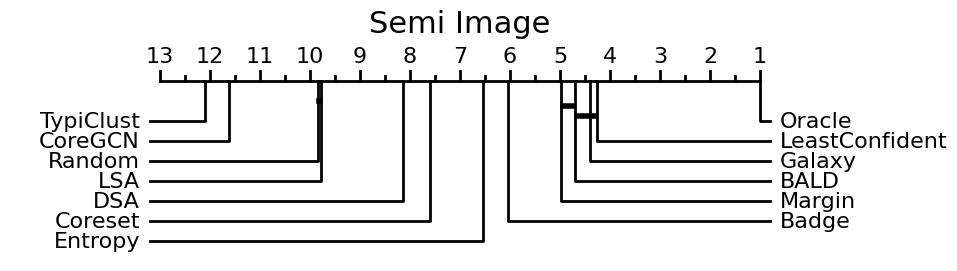
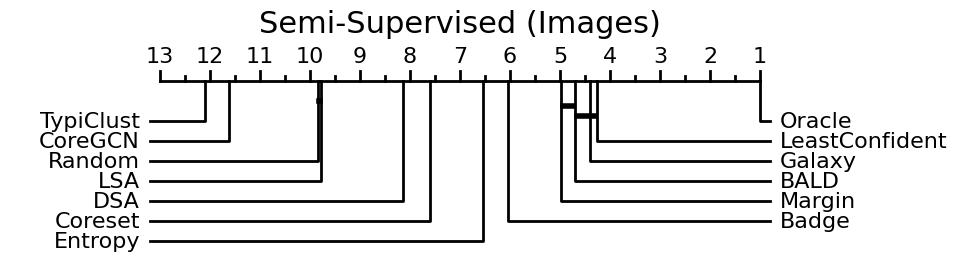
final Diss version

Changed region(s): [[0.2727, 0.0295, 0.697, 0.1476]]

diff --git a/core/evaluation.py b/core/evaluation.py
@@ -207,7 +207,7 @@ def compute_ranks_over_trials(df:pd.DataFrame):
 
 def combine_agents_into_df(dataset=None, query_size=None, agent=None,
                            max_loaded_runs=50, include_oracle=False,
-                           subsample_runs=None):
+                           subsample_runs=None, cut_length=None):
     def _load_trials_for_agent(dataset_name, query_size_name, agent_name):
         if query_size_name is not None:
             agent_folder = join(base_folder, dataset_name, query_size_name, agent_name)
@@ -216,6 +216,9 @@ def combine_agents_into_df(dataset=None, query_size=None, agent=None,
         acc_file = join(agent_folder, "accuracies.csv")
         if exists(acc_file):
             accuracies = pd.read_csv(acc_file, header=0, index_col=0).values
+            if cut_length is not None:
+                new_length = int(len(accuracies) * cut_length)
+                accuracies = accuracies[:new_length]
             if max_loaded_runs is not None:
                 N = max_loaded_runs
             else:
@@ -244,6 +247,8 @@ def combine_agents_into_df(dataset=None, query_size=None, agent=None,
                             df_data["trial"].append(trial)
                         df_data["iteration"].append(iteration)
                         df_data["auc"].append(accuracies[iteration, trial])
+    # End: _load_trials_for_agent
+
 
     base_folder = "runs"
 
@@ -323,7 +328,7 @@ if __name__ == '__main__':
     sorted_agents = ["Oracle", "Margin", "Galaxy", "Badge", "LeastConfident", "DSA", "BALD", "CoreGCN", "Entropy", "LSA",
                      "Random", "Coreset", "TypiClust"]
 
-    # generate_rank_leaderboard(add_std=True)
+    generate_rank_leaderboard(add_std=True)
     # generate_rank_leaderboard(add_std=False, subsample_runs=5)
 
     generate_auc_leaderboard(sorted_agents)

diff --git a/results/cd_diagram.py b/results/cd_diagram.py
@@ -431,9 +431,21 @@ if __name__ == '__main__':
                         "Cifar10Encoded", "FashionMnistEncoded"]
     incl_oracle = True
 
-    df = combine_agents_into_df(datasets_raw + datasets_encoded, include_oracle=incl_oracle)
+    # df = combine_agents_into_df(datasets_raw + datasets_encoded, include_oracle=incl_oracle, cut_length=0.5)
+    # df = prepare_df(df)
+    # draw_cd_diagram(df, title="All Tasks 50%", file="doc/img/macro_all_reduced_50.jpg")
+
+    # df = combine_agents_into_df(["Cifar10Encoded", "FashionMnistEncoded"], include_oracle=incl_oracle)
+    # df = prepare_df(df)
+    # draw_cd_diagram(df, title="Semi-Supervised (Images)", file="doc/img/macro_enc_img.jpg")
+
+    df = combine_agents_into_df(["DNAEncoded", "SpliceEncoded", "USPSEncoded"], include_oracle=incl_oracle)
     df = prepare_df(df)
-    draw_cd_diagram(df, title="All Tasks", file="doc/img/macro_all.jpg")
+    draw_cd_diagram(df, title="Semi-Supervised (Tabular)", file="doc/img/macro_enc_vec.jpg")
+
+    # df = combine_agents_into_df(datasets_raw + datasets_encoded, include_oracle=incl_oracle)
+    # df = prepare_df(df)
+    # draw_cd_diagram(df, title="All Tasks", file="doc/img/macro_all.jpg")
 
     # df = combine_agents_into_df(["Splice", "DNA", "USPS"], include_oracle=incl_oracle)
     # df = prepare_df(df)

diff --git a/download_all_datasets.py b/download_all_datasets.py
@@ -30,6 +30,8 @@ for name in all_names:
     pool_rng = np.random.default_rng(1)
     DatasetClass = get_dataset_by_name(name)
     d = DatasetClass(args.data_folder, config, pool_rng, encoded=False)
+    print("Feats", d.x_train.shape[-1])
+    print("Classes", d.y_train.shape[-1])
     print("Class balance", d.y_train.sum(dim=0))
     if args.encode:
         try:
